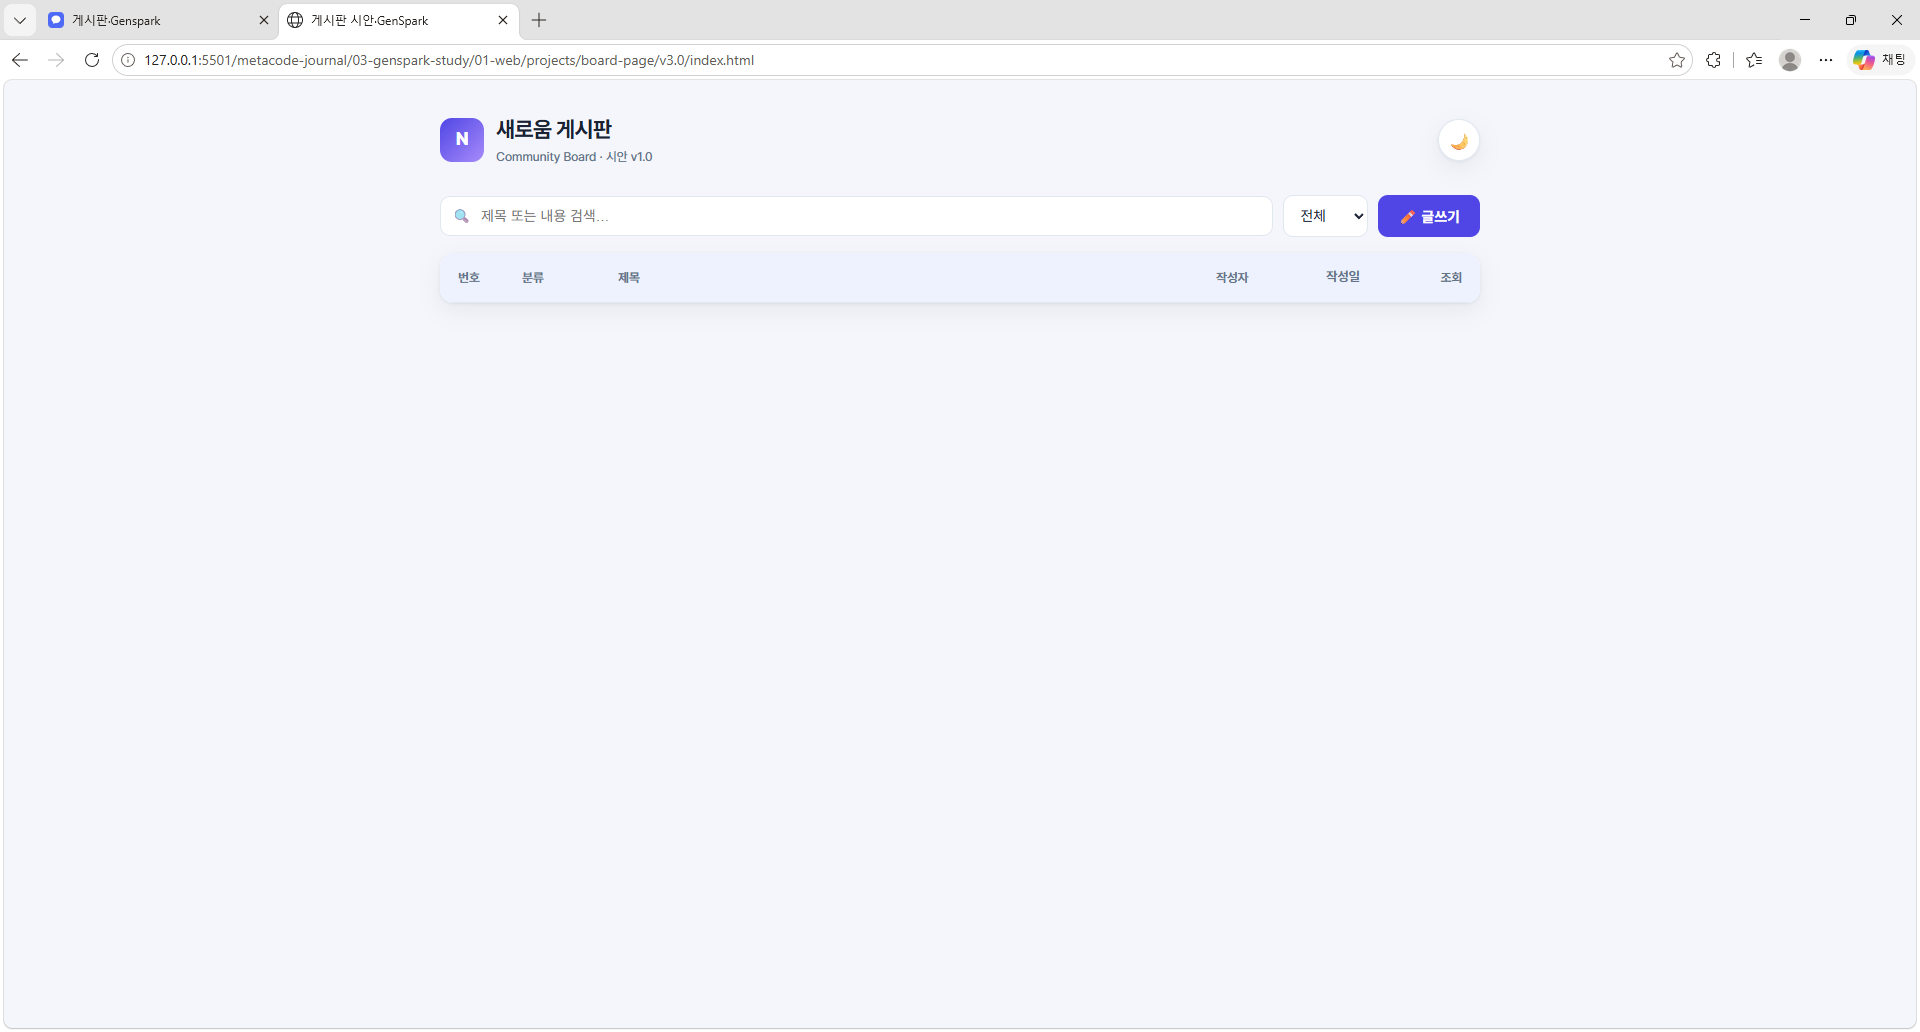
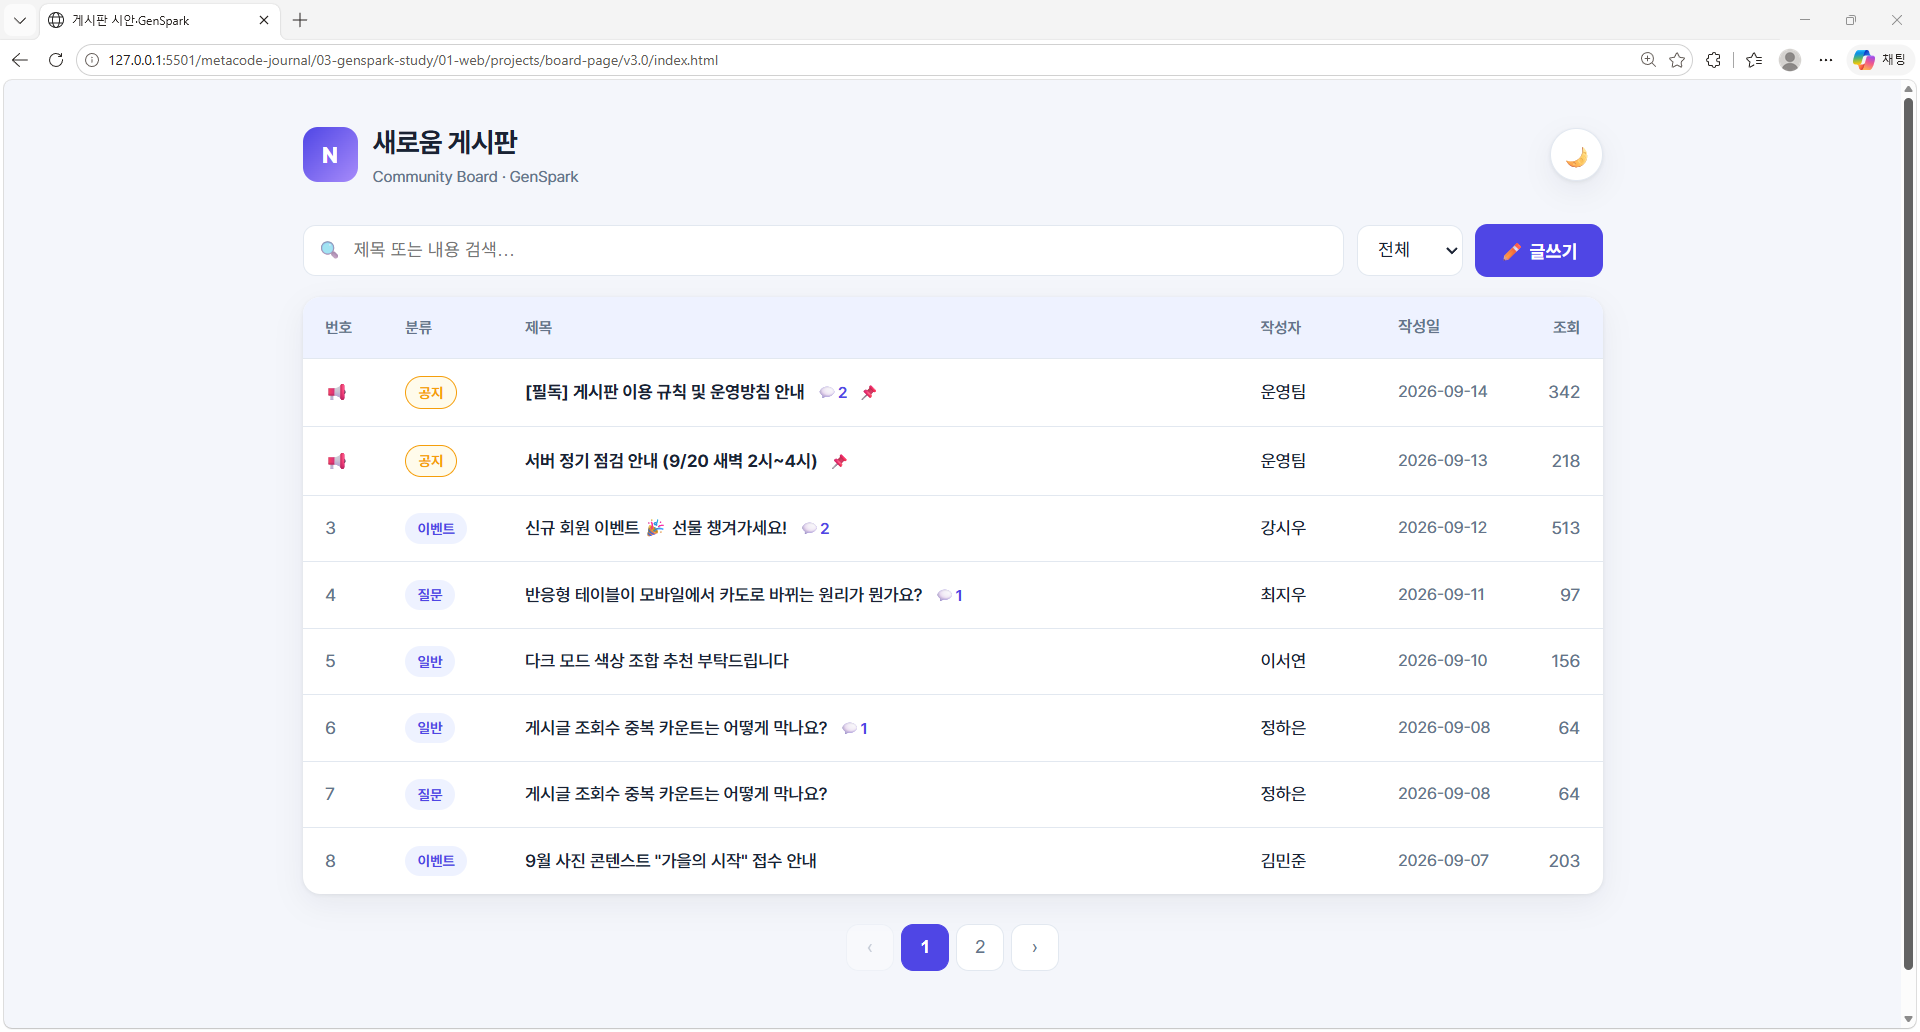
20260929
20260929

diff --git a/03-genspark-study/01-web/projects/board-page/v3.0/script.js b/03-genspark-study/01-web/projects/board-page/v3.0/script.js
@@ -1,17 +1,17 @@
 /* =====================================================
    script-v3.js  –  board v3.0 Interactions
 ===================================================== */
-console.log("main.js 연결 성공!");
 
-(() => {
 'use strict';
+
+
 
 const $ = (s, c = document) => c.querySelector(s);
 
 
 
 /* -- 더미 데이터 -- */
-let posts = [
+const posts = [
     { id: 1, category: '공지', title: '[필독] 게시판 이용 규칙 및 운영방침 안내', author: '운영팀', date: '2026-09-14', views: 342, isNotice: true, body: '안녕하세요, 운영팀입니다.\n\n새 게시판이 오픈되었습니다! 원활한 소통을 위해 아래 규칙을 지켜주세요.\n\n1. 상호 존중하는 언어를 사용해 주세요.\n2. 광고성 글은 사전 승인 없이 삭제될 수 있습니다.\n3. 개인정보가 포함된 게시물은 금지합니다.\n\n감사합니다.', comments: [{ name: '김민준', date: '2026-09-14', text: '규칙 잘 확인했습니다!' }, { name: '이서연', date: '2026-09-15', text: '새 게시판 예쁘네요. 좋은 소통 부탁드려요 :)' },
     ]},
     { id: 2, category: '공지', title: '서버 정기 점검 안내 (9/20 새벽 2시~4시)', author: '운영팀', date: '2026-09-13', views: 218, isNotice: true, body: '서버 안정화를 위한 정기 점검이 진행됩니다.\n\n- 일시: 9월 20일(토) 02:00 ~ 04:00\n- 내용: DB 백업 및 캐시 서버 교체\n\n점검 시간 동안 서비스 이용이 일시 중단될 수 있습니다.', comments: [
@@ -22,7 +22,7 @@ let posts = [
     ]},
     { id: 5, category: '일반', title: '다크 모드 색상 조합 추천 부탁드립니다', author: '이서연', date: '2026-09-10', views: 156, isNotice: false, body: '배경 #0f1420 계열에서 primary 색을 뭘 쓰시나요?\n인디고 계열은 대비가 약간 아쉬운 느낌입니다.', comments: [
     ]},
-    { id: 6, category: '일반', title: '일반', title: '게시글 조회수 중복 카운트는 어떻게 막나요?', author: '정하은', date: '2026-09-08', views: 64, isNotice: false, body: '차박 좋은 곳 발견했어요. 사진 첨부드립니다.\n\n(더미 본문입니다) 주말 나들이 코스로 강력 추천!', comments: [{ name: '최지우', date: '2026-09-09', text: '가을에 다녀와야겠네요 🍂'},
+    { id: 6, category: '일반', title: '게시글 조회수 중복 카운트는 어떻게 막나요?', author: '정하은', date: '2026-09-08', views: 64, isNotice: false, body: '차박 좋은 곳 발견했어요. 사진 첨부드립니다.\n\n(더미 본문입니다) 주말 나들이 코스로 강력 추천!', comments: [{ name: '최지우', date: '2026-09-09', text: '가을에 다녀와야겠네요 🍂'},
     ]},
     { id: 7, category: '질문', title: '게시글 조회수 중복 카운트는 어떻게 막나요?', author: '정하은', date: '2026-09-08', views: 64, isNotice: false, body: '새로고침할 때마다 조회수가 올라가는데, 쿠기나 세션 외에 좋은 방법이 있을까요?', comments: [
     ]},
@@ -50,12 +50,12 @@ let nextId = Math.max(...posts.map(p => p.id)) + 1;
 
 /* -- 목록 렌더링 -- */
 function getFiltered() {
-    const q = $('#searchInput').value.trim().toLowerCase();
-    const cat = $('#categoryFilter').value;
+    const q = $('#searchInput')?.value.trim().toLowerCase() || '';
+    const cat = $('#categoryFilter')?.value || 'all';
     return posts
         .filter(p => cat === 'all' || p.category === cat)
         .filter(p => !q || p.title.toLowerCase().includes(q) || p.body.toLowerCase().includes(q))
-        .sort((a, b) => (b.isNotice - a.isNotice) || (b.date < a.date ? -1 : 1)); 
+        .sort((a, b) => (Number(b.isNotice) - Number(a.isNotice)) || b.date.localeCompare(a.date)); 
 }
 
 function renderList() {
@@ -66,15 +66,19 @@ function renderList() {
     const pageItems = filtered.slice(start, start + PAGE_SIZE);
 
     const tbody = $('#tableBody');
+    if (!tbody) return;
+
     if (!pageItems.length) {
         tbody.innerHTML = `<tr><td colspan="6" class="empty-row">등록된 게시글이 없습니다 🍃</td></tr>`;
     } else {
         tbody.innerHTML = pageItems.map(p => {
-            const no = p.isNotice ? '📢' : (filtered.length = filtered.indexOf(p) - start === 0 ? '' : filtered.length - filtered.indexOf(p));
+            
+            const no = p.isNotice ? '📢' : filtered.indexOf(p) + 1;
+            
             return `<tr data-id="${p.id}" class="${p.isNotice ? 'notice' : ''}" tabindex="0">
-                <td class="col-no">${p.isNotice ? '' : no}</td>
+                <td class="col-no">${no}</td>
                 <td class="col-cat"><span class="badge ${p.isNotice ? 'notice' : 'cat'}">${p.category}</span></td>
-                <td class="title-cell">${escapeHtml(p.title)}${p.comments.length ? `<span class="comment-count">💬${p.comments.length}</span>` : ''}
+                <td class="title-cell">${escapeHtml(p.title)}${p.comments.length ? ` <span class="comment-count">💬${p.comments.length}</span>` : ''}
                     <div class="mobile-meta"><span>${p.author}</span><span>조회 ${p.views}</span></div>
                 </td>
                 <td class="col-author">${p.author}</td>
@@ -88,25 +92,33 @@ function renderList() {
 
     /* -- 페이지네이션 -- */
     const pg = $('#pagination');
+    if (!pg) return;
     pg.innerHTML = '';
+
     const prev = document.createElement('button');
-    prev.className = 'page-btn'; prev.textContent = '‹';
+    prev.className = 'page-btn';
+    prev.textContent = '‹';
     prev.disabled = currentPage === 1;
     prev.onclick = () => { currentPage--; renderList(); };
     pg.appendChild(prev);
+
     for (let i = 1; i <= totalPages; i++) {
         const b = document.createElement('button');
         b.className = 'page-btn' + (i === currentPage ? ' active' : '');
         b.textContent = i;
-        b.onclick = () => { currentPage = i, renderList(); window.scrollTo({ top: 0, behavior: 'smooth' }); };
+        b.onclick = () => { currentPage = i; renderList(); window.scrollTo({ top: 0, behavior: 'smooth' }); };
         pg.appendChild(b);
     }
+
     const next = document.createElement('button');
-    next.className = 'page-btn'; next.textContent = '›';
+    next.className = 'page-btn';
+    next.textContent = '›';
     next.disabled = currentPage === totalPages;
     next.onclick = () => { currentPage++; renderList(); };
     pg.appendChild(next);
 }
+
+
 
 function escapeHtml(s) {
     const d = document.createElement('div');
@@ -117,21 +129,24 @@ function escapeHtml(s) {
 
 
 /* -- 상세 뷰 -- */
-function openDetail(id) {
+function openDetail(id, increaseView = true) {
     const p = posts.find(x => x.id === id);
     if (!p) return;
     currentPostId = id;
-    p. views++; // 조회수 증가
+
+    if (increaseView) {
+        p.views++; // 조회수 증가
+    }
 
     $('#detailBadges').innerHTML =
-        `<span class="badge ${p.isNotice ? 'notice' : 'cat'}">${p.category}</span>` +
-        (p.isNotice ? `<span class="badge notice">공지</span>` : '');
+    `<span class="badge ${p.isNotice ? 'notice' : 'cat'}">${p.category}</span>`;
     $('#detailTitle').textContent = p.title;
     $('#detailAuthor').textContent = `✍ ${p.author}`;
     $('#detailDate').textContent = `🕐 ${p.date}`;
     $('#detailViews').textContent = `👁 조회 ${p.views}`;
     $('#detailBody').textContent = p.body;
     renderComments(p);
+
     $('#listView').style.display = 'none';
     $('#detailView').style.display = 'block';
     window.scrollTo({ top: 0 });
@@ -141,73 +156,133 @@ function renderComments(p) {
     $('#commentCount').textContent = `댓글 ${p.comments.length}`;
     $('#commentList').innerHTML = p.comments.length
         ? p.comments.map(c => `<div class="comment">
-            <div class="avatar">${c.name[0]}</div>
+            <div class="avatar">${escapeHtml(c.name[0])}</div>
             <div class="c-body">
                 <span class="c-name">${escapeHtml(c.name)}</span><span class="c-date">${c.date}</span>
                 <div class="c-text">${escapeHtml(c.text)}</div>
             </div>
-            <div>`).join('')
+        </div>`).join('')  // </div> 로 정상 수정
         : `<p style="color:var(--text-sub); font-size: 14px; padding: 8px 0;">첫 댓글의 주인공이 되어보세요 ✨</p>`;
 }
 
-function showList() {
+function showList(updateHistory = true) {
     $('#detailView').style.display = 'none';
     $('#listView').style.display = 'block';
     currentPostId = null;
+
+    if (updateHistory) {
+        history.pushState({ page: 'list', postId: null, currentPage }, '', location.pathname);
+    }
     renderList();
 }
 
 
 
 /* -- 이벤트 바인딩 -- */
-$('#tableBody').addEventListener('click', e => {
-    const tr = e.target.closest('tr[data-id]');
-    if (tr) openDetail(Number(tr.dataset.id));
-});
-$('#tableBody').addEventListener('keydown', e => {
-    if (e.key === 'Enter') {
-        const tr = e.target.closest('tr[data-id]');
-        if (tr) openDetail(Number(tr.dataset.id));
+const postButton = document.querySelector('#postButton');
+postButton?.addEventListener('click', () => {
+    if (posts.length) {
+        posts[0].views += 1;
+        renderList();
     }
 });
-$('#searchInput').addEventListener('input', () => { currentPage = 1; renderList(); });
-$('#categoryFilter').addEventListener('change', () => { currentPage = 1; renderList(); });
 
+
+
+/* -- 목록으로 돌아가기 버튼 대응 -- */
+$('#backToList')?.addEventListener('click', () => showList());
+$('#backBtn')?.addEventListener('click', () => showList());
+
+
+
+/* -- 게시판 클릭 & 키보드 이동 -- */
+function handlePostSelect(target) {
+    const tr = target.closest('tr[data-id]');
+    if (tr) {
+        const postId = Number(tr.dataset.id);
+        history.pushState({ page: 'detail', postId, currentPage }, '', `?post=${postId}`);
+        openDetail(postId);
+    }
+}
+
+$('#tableBody')?.addEventListener('click', e => handlePostSelect(e.target));
+$('#tableBody')?.addEventListener('keydown', e => {
+    if (e.key === 'Enter') handlePostSelect(e.target);
+});
+
+
+
+/* -- 검색 및 필터 -- */
+$('#searchInput')?.addEventListener('input', () => { currentPage = 1; renderList(); });
+$('#categoryFilter')?.addEventListener('change', () => { currentPage = 1; renderList(); });
+
+
+
+/* -- 댓글 작성 -- */
 $('#commentForm').addEventListener('submit', e => {
     e.preventDefault();
-    const text = $('#commentInput').value.trim();
+    const input = $('#commentInput');
+    const text = input.value.trim();
     if (!text || !currentPostId) return;
+
     const p = posts.find(x => x.id === currentPostId);
-    p.comments.push({ name: '나', date: '2026-09-16', text });
-    $('#commentInput').value = '';
-    renderComments(p);
-    renderList();
+    if (p) {
+        p.comments.push({ name: '나', date: '2026-09-16', text });
+        input.value = '';
+        renderComments(p);
+    }
+});
+
+
+
+/* -- 브라우저 히스토리 -- */
+history.replaceState({ page: 'list', postId: null, currentPage }, '', location.href);
+
+window.addEventListener('popstate', event => {
+    const state = event.state;
+
+    // 게시글 상세
+    if (state?.page === 'detail' && state.postId != null) {
+        if (state.currentPage != null) currentPage = state.currentPage;
+        openDetail(state.postId, false); // 뒤로가기 이동 시 불필요한 조회수 중복 증가 방지
+        return;
+    }
+
+    if (state?.currentPage != null) {
+        currentPage = state.currentPage;
+    }
+    showList(false);
 });
 
 
 
 /* -- 글쓰기 모달 -- */
-$('#writeBtn').addEventListener('click', () => $('#writeModal').classList.add('open'));
-$('#writeModal').addEventListener('click', e => { if (e.target === e.currentTarget) closeModal(); });
-function closeModal() { $('#writeModal').classList.remove('open'); }
+function closeModal() { $('#writeModal')?.classList.remove('open'); }
+
+$('#writeBtn')?.addEventListener('click', () => $('#writeModal')?.classList.add('open'));
+$('#writeModal')?.addEventListener('click', e => { if (e.target === e.currentTarget) closeModal(); });
 
 $('#writeForm').addEventListener('submit', e => {
     e.preventDefault();
     const title = $('#wTitle').value.trim();
     const body = $('#wBody').value.trim();
     if (!title || !body) return;
+
     posts.unshift({
-        id: nextId++, category: $('#wCategory').value, title, body, author: '나', date: '2026-09-16', views: 0, isNotice: false, comments: [],
+        id: nextId++, category: $('#wCategory').value, title, body, author: '나', date: '2026-09-16', views: 0, isNotice: false, comments: []
     });
+
     closeModal();
-    $('#wTitle').value = ''; $('#wBody').value = '';
+    $('#wTitle').value = '';
+    $('#wBody').value = '';
+    currentPage = 1;
     showList();
 });
 
 
 
 /* -- 다크 모드 -- */
-$('#themeToggle').addEventListener('click', () => {
+$('#themeToggle')?.addEventListener('click', () => {
     const root = document.documentElement;
     const dark = root.dataset.theme === 'dark';
     root.dataset.theme = dark ? 'light' : 'dark';
@@ -217,5 +292,11 @@ $('#themeToggle').addEventListener('click', () => {
 
 
 /* -- 초기 렌더 -- */
-renderList();
-})();
+const urlParams = new URLSearchParams(window.location.search);
+const initPostId = Number(urlParams.get('post'));
+
+if (initPostId && posts.some(p => p.id === initPostId)) {
+    openDetail(initPostId);
+} else {
+    renderList();
+}

diff --git a/03-genspark-study/01-web/projects/board-page/v3.0/style.css b/03-genspark-study/01-web/projects/board-page/v3.0/style.css
@@ -195,7 +195,7 @@ tr.notice td.title-cell::after {
 /* -- Comments -- */
 .comments { padding: 24px 28px 28px; border-top: 1px solid var(--border); }
 .comments h3 { font-size: 16px; margin-bottom: 16px; }
-.comment { display: flex; gap: 12px; padding: 14px 0; border-bottom: 1px dashed var(--border); }
+.comment { display: flex; gap: 12px; padding: 14px 0; border-bottom: 1px dashed var(--border); width: 100%; }
 .comment:last-child { border-bottom: none; }
 .avatar {
     width: 36px; height: 36px; border-radius: 50%; flex-shrink: 0;

diff --git a/03-genspark-study/01-web/projects/board-page/README.md b/03-genspark-study/01-web/projects/board-page/README.md
@@ -30,4 +30,25 @@
 
 ![프로젝트 대표 이미지](./img/preview-3.0.png)
 
+![프로젝트 대표 이미지](./img/preview-3.1.png)
+
+![프로젝트 대표 이미지](./img/preview-3.2.png)
+
+![프로젝트 대표 이미지](./img/preview-3.3.png)
+
 ---
+
+## 프로젝트 개요
+
+이 프로젝트는 **젠스파크(Genspark)**를 통해 제공받은 웹 디자인 시안(v1.0 ~ v3.0)을 실습용으로 구현한 미니 프로젝트 입니다. 본 문서는 **v1.0 ~ v3.0 시안 기반 로그인 페이지**의 README이며, **다른 버전들도 동일한 방식(HTML · CSS · JavaScript)으로 제작**되었습니다.
+
+---
+
+## 프로젝트(v1.0 ~ v3.0)의 목적
+
+v1.0 ~ v3.0 시안은 전체 디자인 시안 중 가장 기본적인 구조를 가진 버전으로, 공지사항 UI의 핵심 요소를 중심으로 구성되어 있습니다. 본 프로젝트는 해당 시안을 코드로 구현하며 다음 목표를 달성하고자 했습니다.
+
+- HTML · CSS · JavaScript 만으로 완성도 높은 UI 구현 연습
+- 버전별 디자인 차이를 코드 구조로 어떻게 반영할지 실험
+- 반응형, 접근성, 인터랙션 등 프론트엔드 기본기 강화
+- 실제 서비스 제작 시 필요한 컴포넌트 구조화 경험
